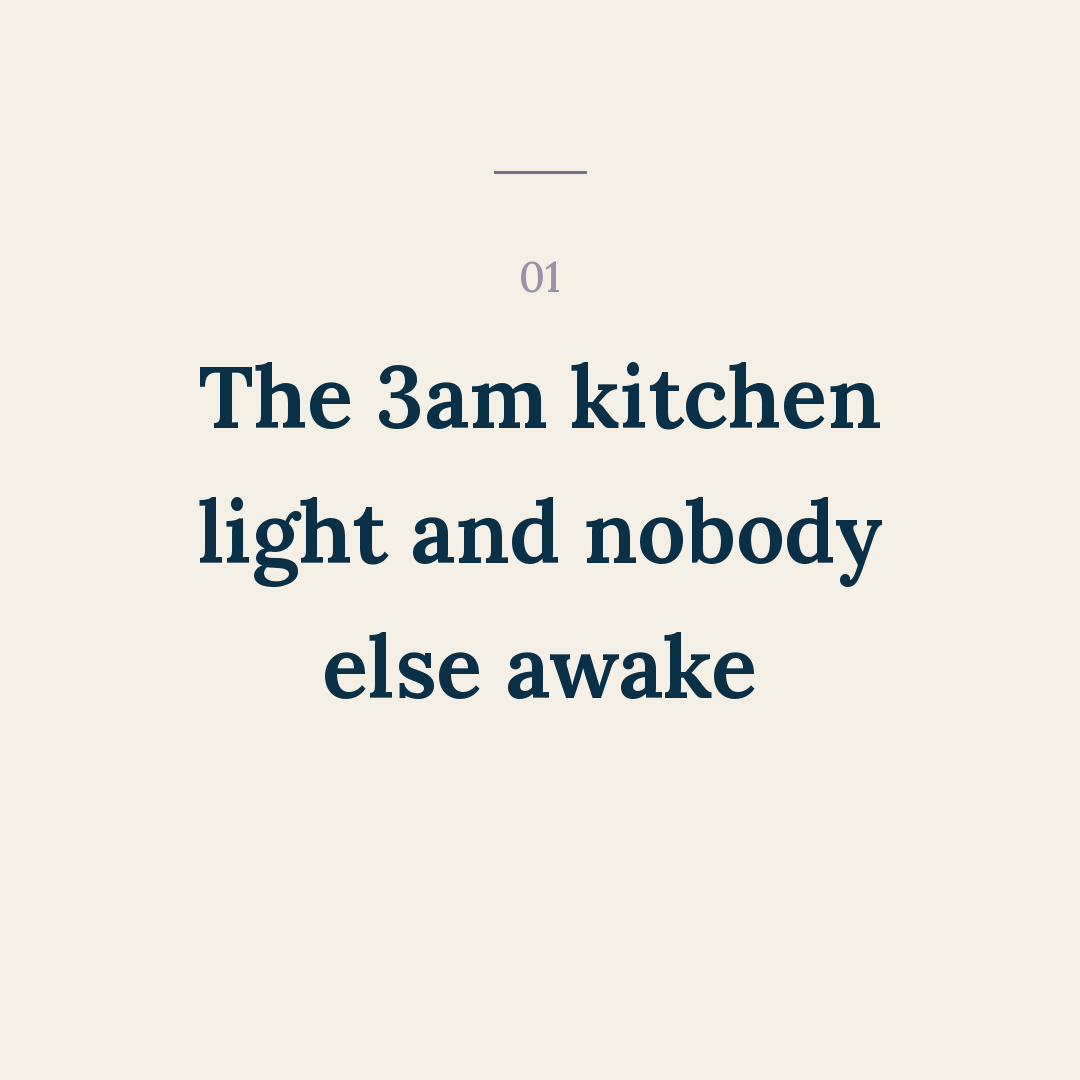
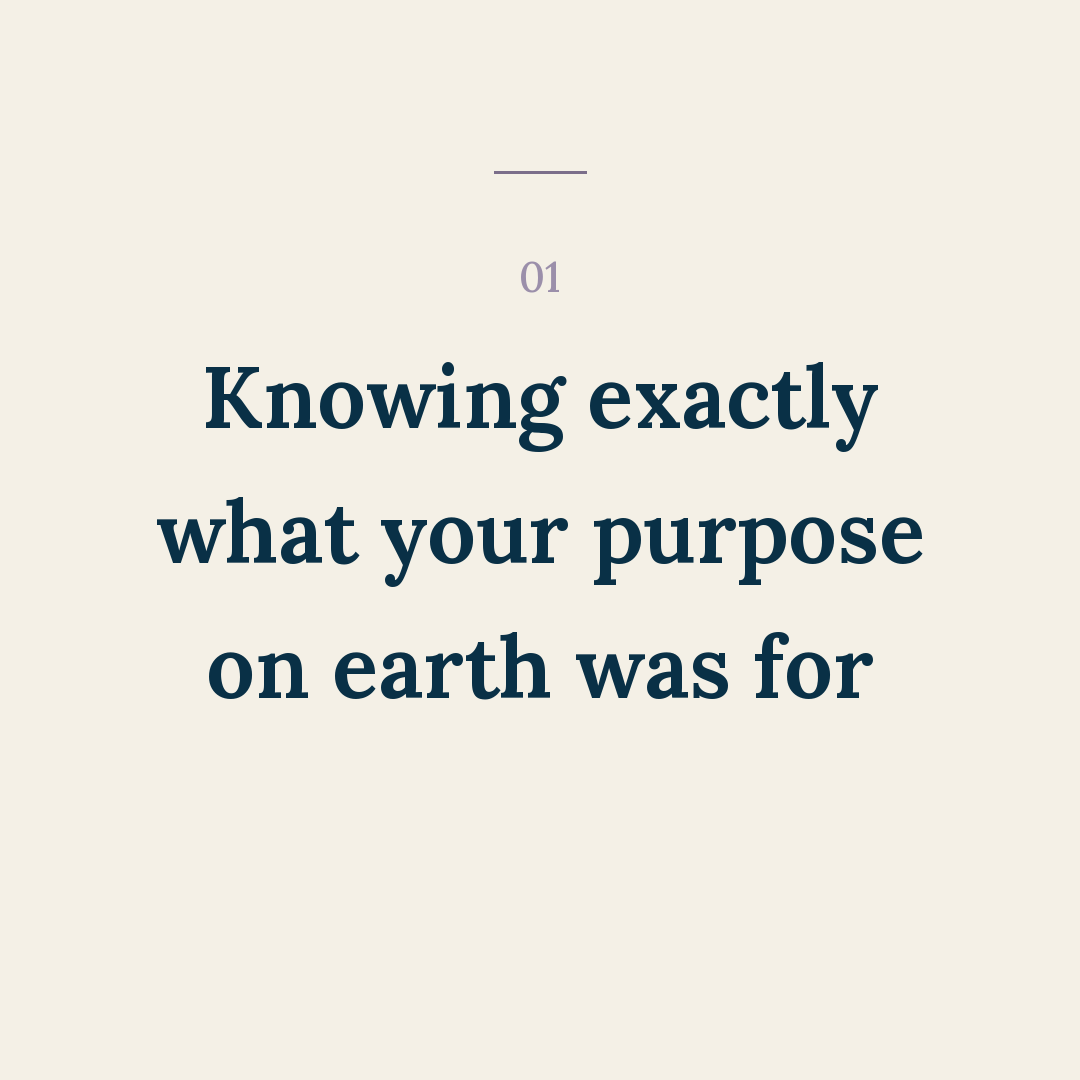
Add 46-the-newborn-fog-youll-miss (46 - The Newborn Fog Youll Miss)

Changed region(s): [[0.1528, 0.4583, 0.8556, 0.55], [0.1833, 0.3361, 0.825, 0.4278], [0.1833, 0.5806, 0.7944, 0.6722]]

diff --git a/posts/46-the-newborn-fog-youll-miss/slides.md b/posts/46-the-newborn-fog-youll-miss/slides.md
@@ -1,15 +1,16 @@
 # 46 - The Newborn Fog Youll Miss
 
 Format: carousel · bg cream · lane Keepsake · CTA Follow · hook #6
+Revised 2026-08-09 from Ben's review workbook (post-review-2026-08-10.numbers).
 
 ## Cover
 The parts of the newborn fog you'll actually miss…
 
 ## Items
-01  The 3am kitchen light and nobody else awake
+01  Knowing exactly what your purpose on earth was for
 02  Losing whole days and not minding
-03  Wearing yesterday's shirt because they slept on you
-04  The house quiet in a way it never is again
+03  Wearing yesterday's shirt because they fell asleep on you
+04  The 3am snuggle when nobody else is awake
 05  Being the only one who knew what they needed
 
 ## Closer (follow)
